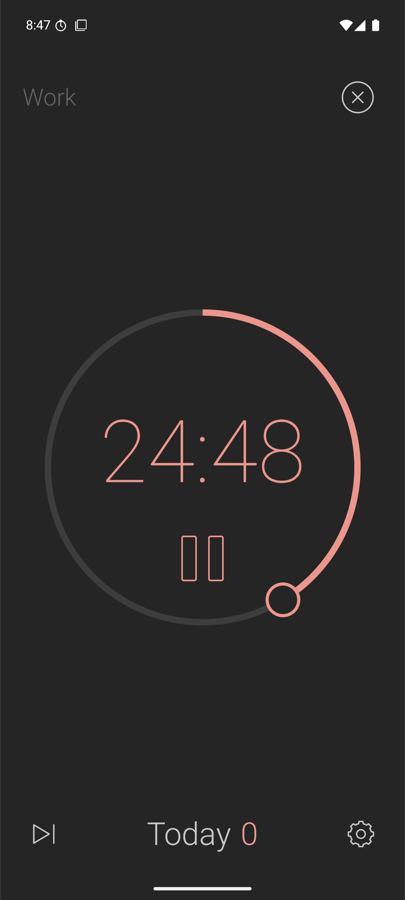
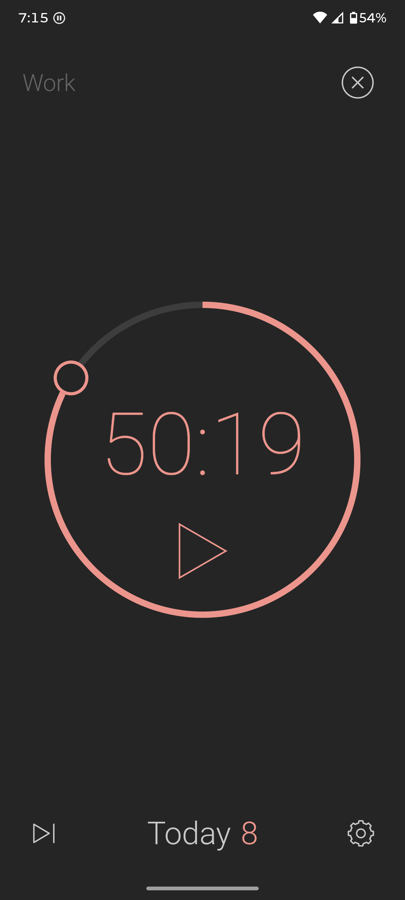
README and CHANGELOG: experimental sync

diff --git a/README.md b/README.md
@@ -8,6 +8,10 @@
 [![Release](https://img.shields.io/github/v/release/NikolaevMikhailRoma/mac-AppPomodoroSimple)](https://github.com/NikolaevMikhailRoma/mac-AppPomodoroSimple/releases/latest)
 [![Downloads](https://img.shields.io/github/downloads/NikolaevMikhailRoma/mac-AppPomodoroSimple/total)](https://github.com/NikolaevMikhailRoma/mac-AppPomodoroSimple/releases)
 
+# (experimental)
+- added android app
+- linked mac and android app, by local network and keychain
+
 # macOS
 ![Menu bar and timer](assets/popover.png)
 
@@ -58,6 +62,7 @@ The same timer on Android 8 and newer. Tested on a Motorola Edge 50 with Android
 
 <p>
   <img src="assets/android-timer.png" width="270" alt="Android timer">
+  <img src="assets/android-settings.png" width="270" alt="Android settings">
 </p>
 
 ## Run the app (users)

diff --git a/CHANGELOG.md b/CHANGELOG.md
@@ -2,6 +2,13 @@
 
 All notable changes, newest first. The format follows [Keep a Changelog](https://keepachangelog.com/en/1.1.0/).
 
+## [Unreleased] — experimental
+
+Not released yet; goes out together with the iPhone app.
+
+### Added
+- Mac and Android sync over the home Wi-Fi: one timer and the same interval lengths on both, paired once with a QR code (Settings → Devices).
+
 ## [0.2.0] — 2026-10-23
 
 ### Added
